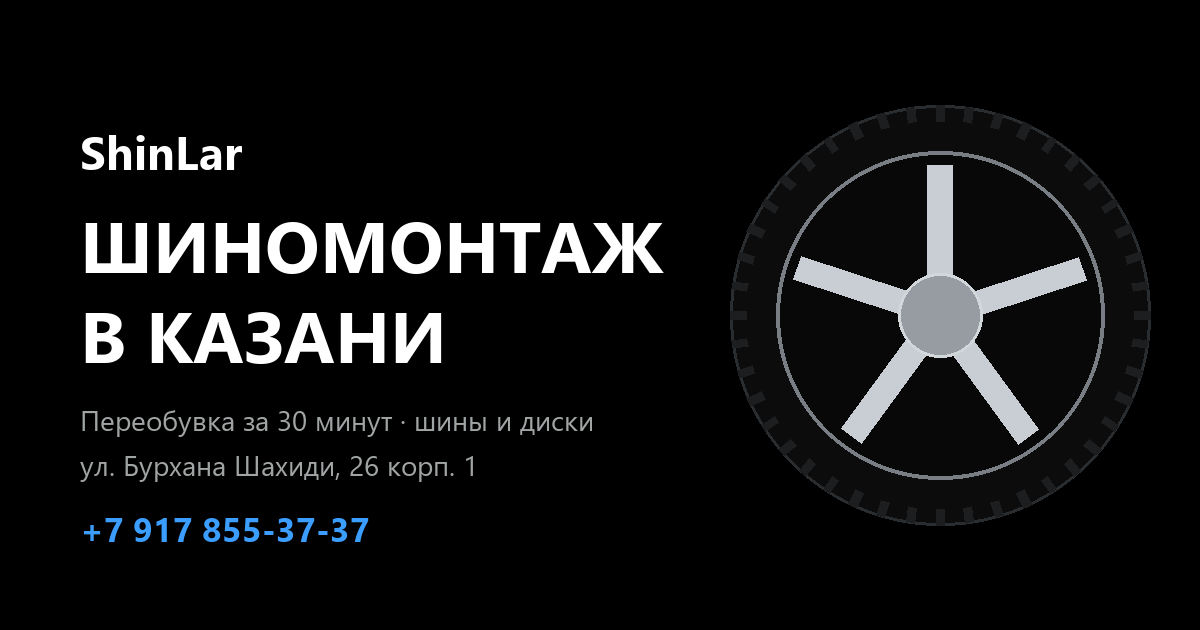
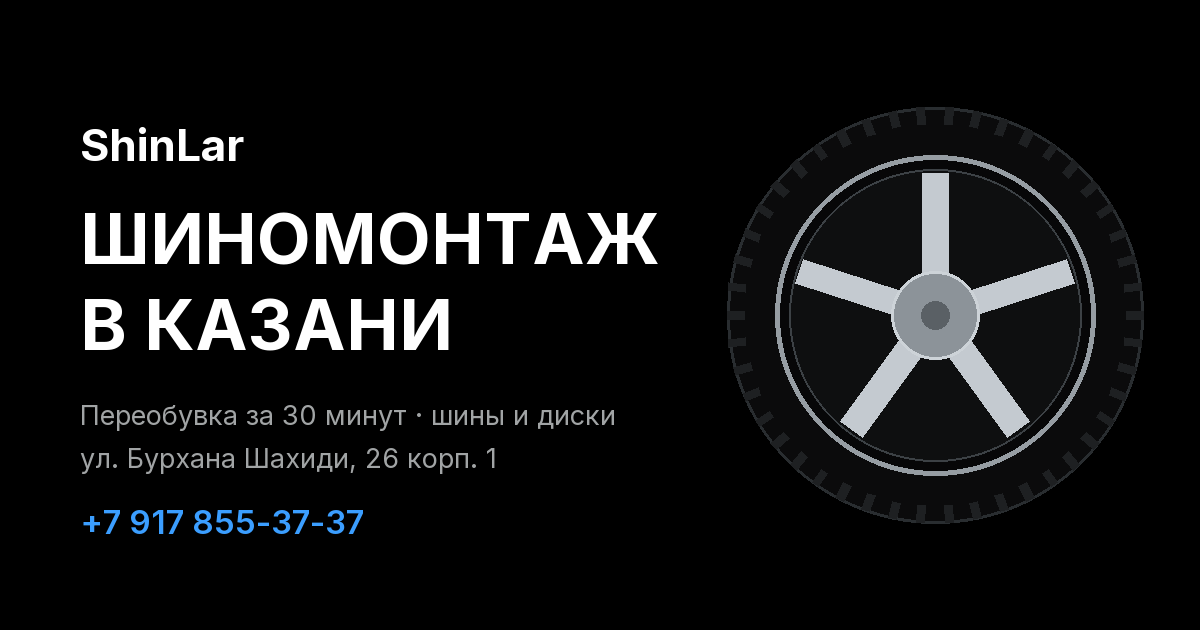
Превью og.png перерисовано на Inter, добавлен раздел о лицензиях
Картинка для мессенджеров генерировалась системным Segoe UI — его лицензия
не рассчитана на коммерческую графику. Теперь она рисуется на Inter (OFL 1.1),
заодно типографика превью совпала с сайтом.

diff --git a/README.md b/README.md
@@ -94,3 +94,22 @@ HDR-окружение со «софтбоксами» для отражений
 
 Если WebGL недоступен, вместо канваса показывается CSS-заглушка; при включённом в системе
 «уменьшении анимации» колесо не вращается.
+
+## Лицензии
+
+Всё в проекте можно использовать в коммерческом проекте клиента:
+
+| Что | Лицензия |
+|---|---|
+| Inter — весь текст | SIL Open Font License 1.1 |
+| JetBrains Mono — цены и размеры шин | SIL Open Font License 1.1 |
+| three.js | MIT |
+| Иконки, логотип-значок, favicon, og-превью | нарисованы для этого проекта |
+
+Шрифты подключены с Google Fonts CDN, файлов шрифтов в репозитории нет — прикладывать текст
+лицензии не требуется. OFL запрещает только продажу самих шрифтов как отдельного товара;
+использование на коммерческом сайте, модификация и встраивание разрешены, атрибуция не нужна.
+
+Превью `assets/og.png` генерируется скриптом на Inter — системные шрифты Windows
+(Segoe UI, Arial) в графике сознательно не используются: их лицензии не рассчитаны
+на коммерческую графику вне продуктов правообладателя.
